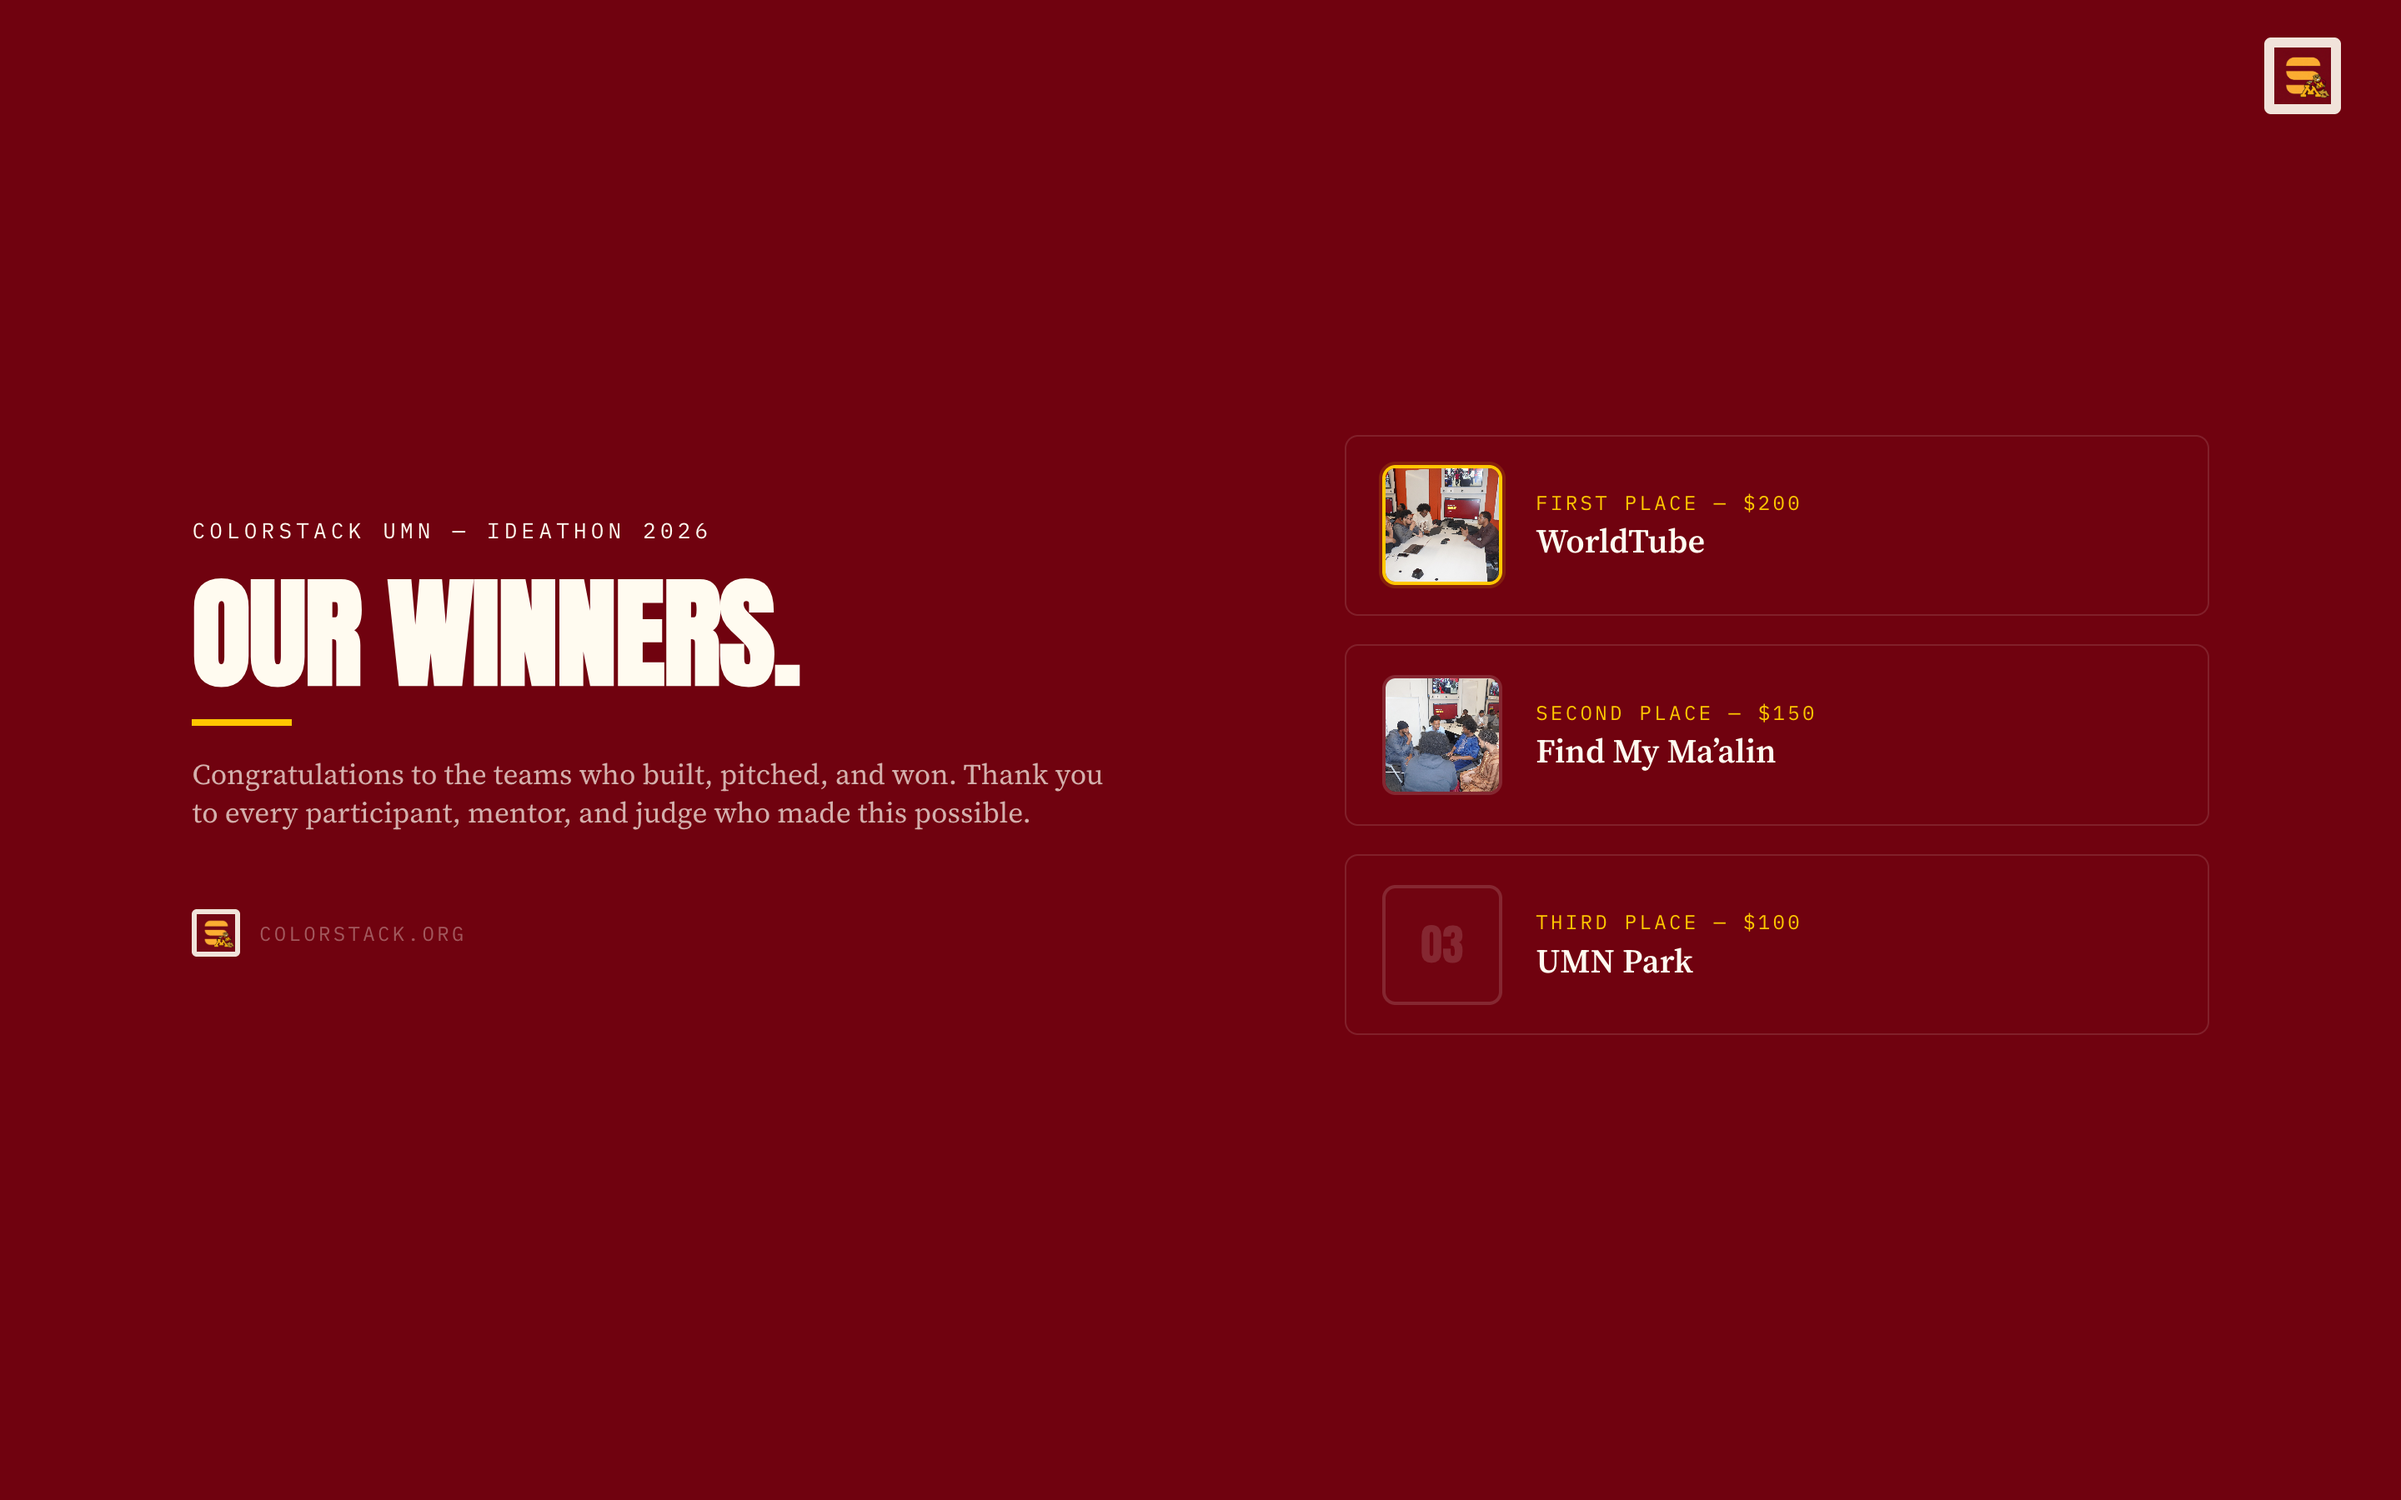
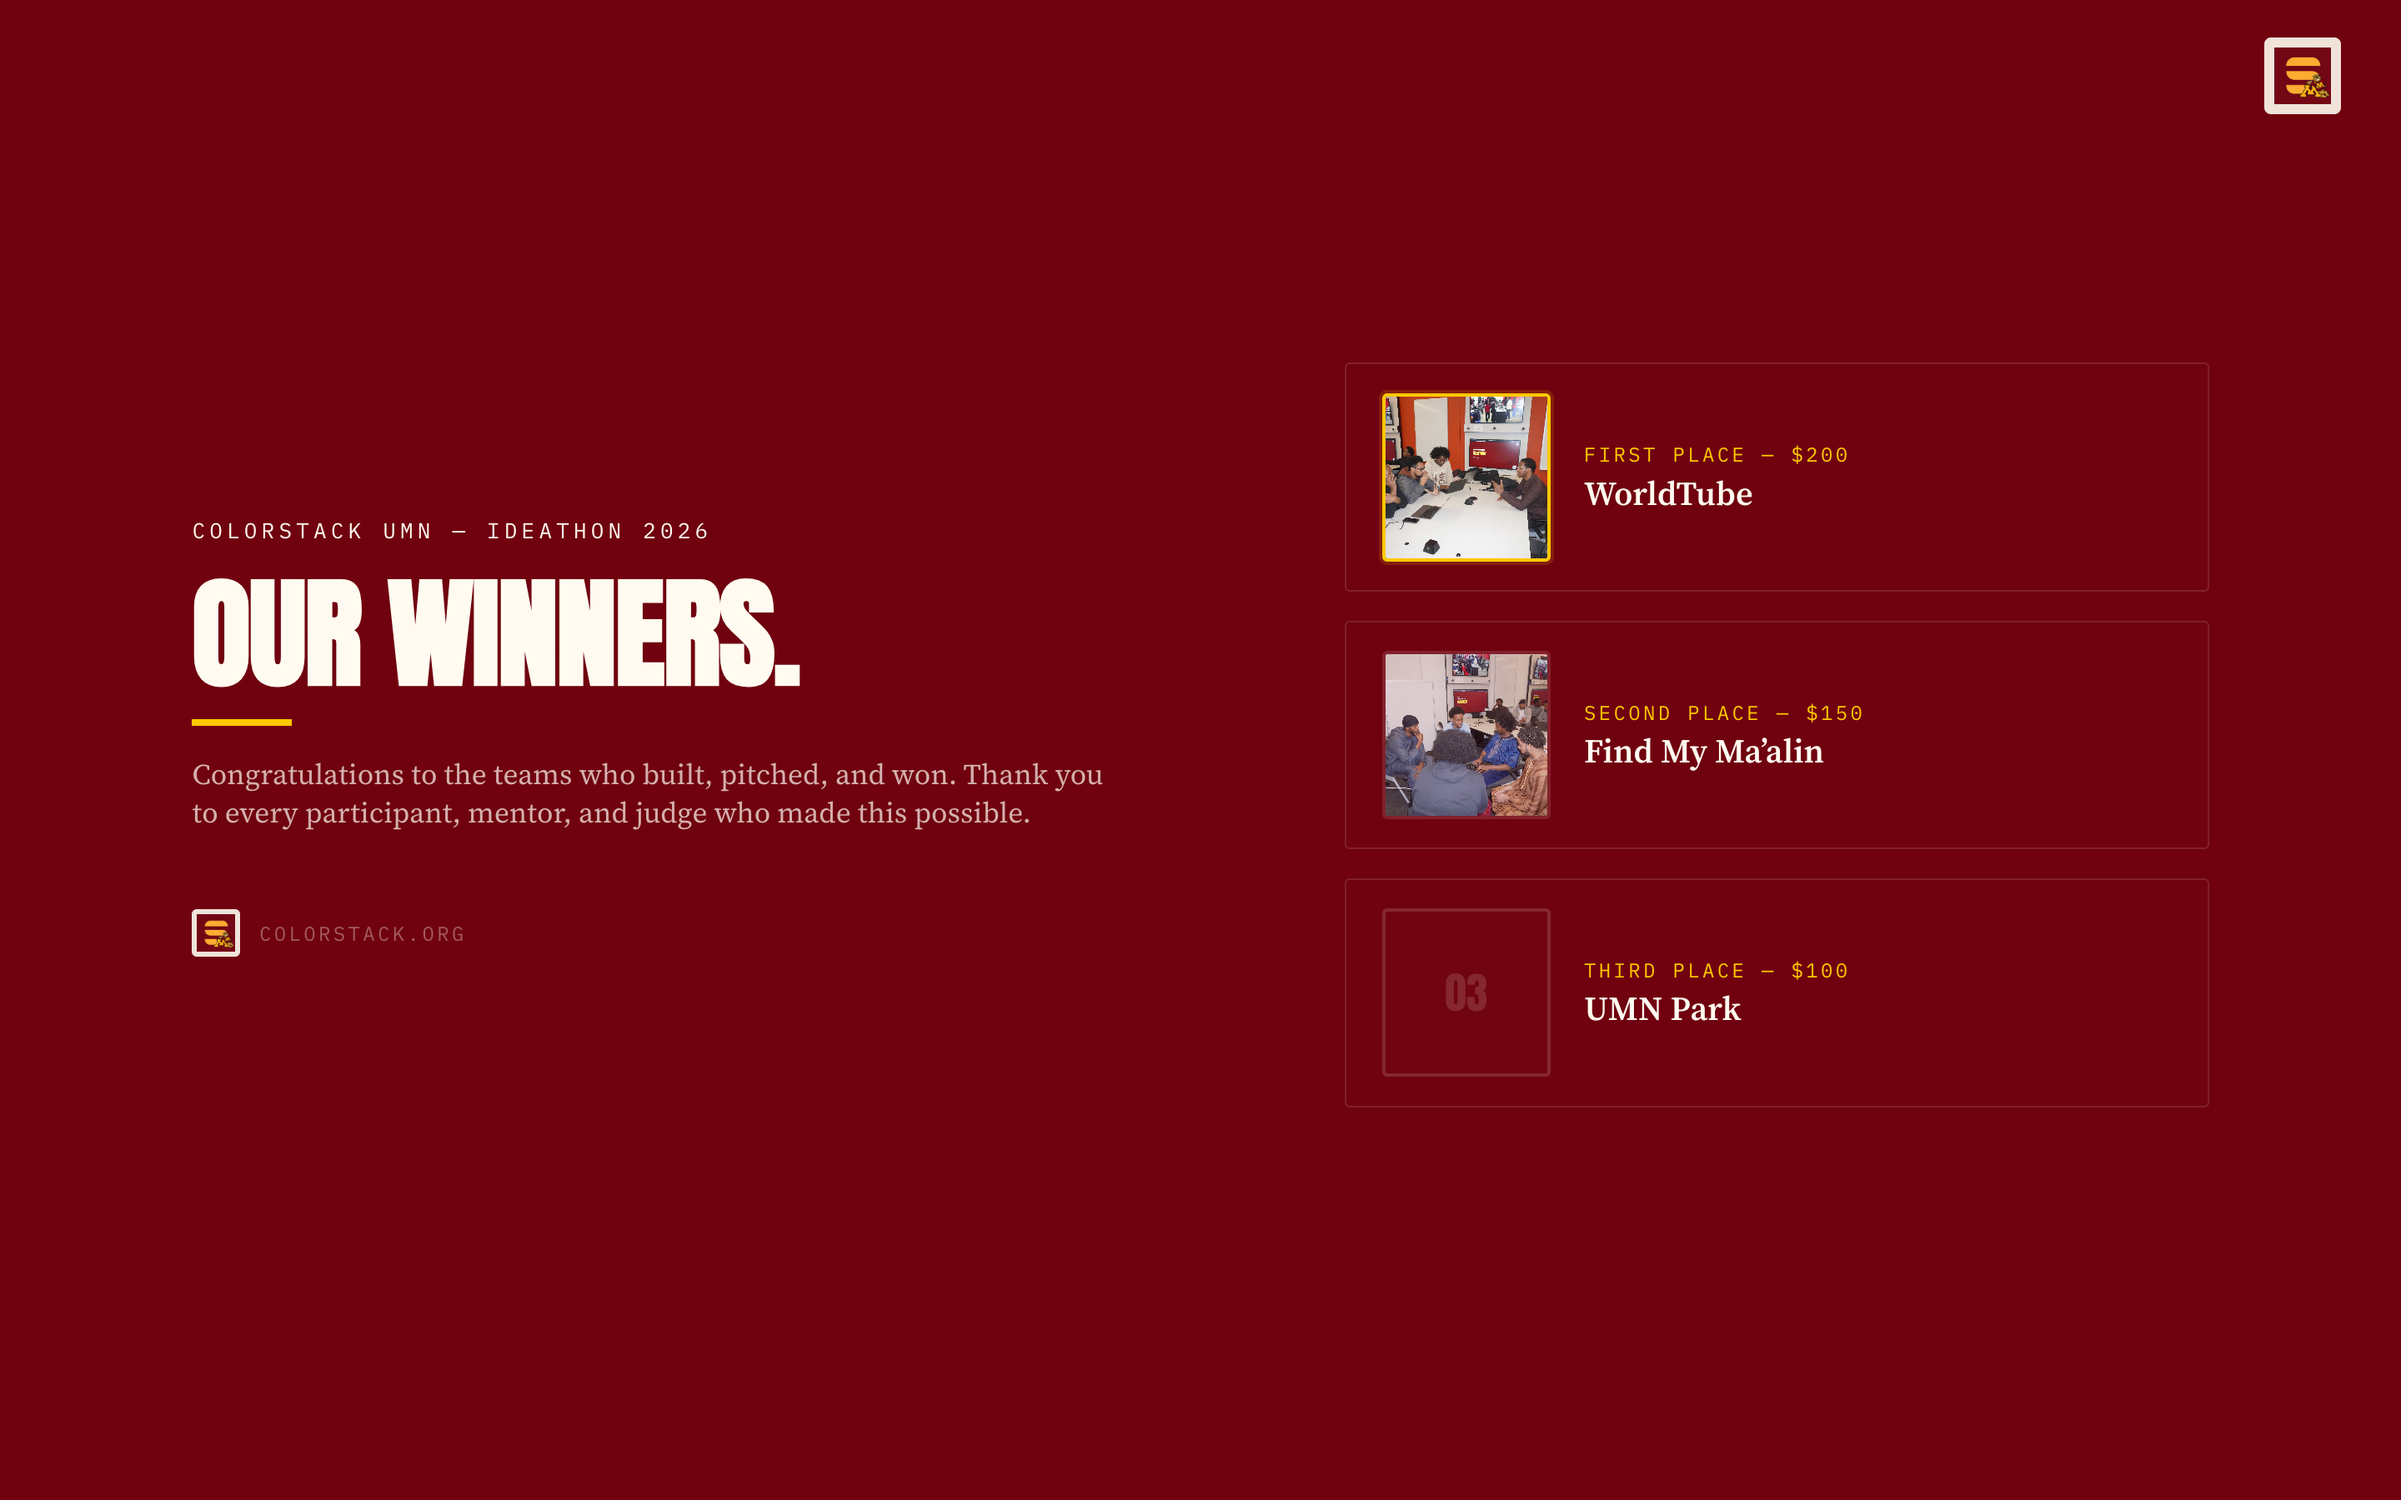
bigger images, sharp corners, clickable lightbox

Changed region(s): [[0.5625, 0.2489, 0.9062, 0.6844], [0.75, 0.28, 0.7812, 0.3111], [0.5938, 0.7156, 0.625, 0.7467]]

diff --git a/styles.css b/styles.css
@@ -390,12 +390,12 @@ body.theme--cream  { background: var(--cream);  color: var(--maroon); }
   gap: max(16px, 1.4vw);
   padding: max(14px, 1.2vw) max(18px, 1.5vw);
   border: 1px solid rgba(255, 251, 240, 0.12);
-  border-radius: 8px;
+  border-radius: 3px;
 }
 .winner-entry-img {
-  width: max(64px, 5vw);
-  height: max(64px, 5vw);
-  border-radius: 8px;
+  width: max(90px, 7vw);
+  height: max(90px, 7vw);
+  border-radius: 3px;
   overflow: hidden;
   flex-shrink: 0;
   border: 2px solid rgba(255, 251, 240, 0.15);
@@ -421,6 +421,57 @@ body.theme--cream  { background: var(--cream);  color: var(--maroon); }
   font-size: max(20px, 1.8vw);
   color: var(--cream);
   opacity: 0.15;
+}
+
+/* ── Lightbox ── */
+.winner-entry-img[data-lightbox] { cursor: pointer; }
+.winner-entry-img[data-lightbox]:hover { opacity: 0.85; transition: opacity 0.2s; }
+
+.lightbox {
+  position: fixed;
+  inset: 0;
+  z-index: 9999;
+  display: flex;
+  align-items: center;
+  justify-content: center;
+  opacity: 0;
+  pointer-events: none;
+  transition: opacity 0.3s cubic-bezier(0.22, 1, 0.36, 1);
+}
+.lightbox.active {
+  opacity: 1;
+  pointer-events: auto;
+}
+.lightbox-backdrop {
+  position: absolute;
+  inset: 0;
+  background: rgba(30, 5, 5, 0.92);
+  cursor: pointer;
+}
+.lightbox-content {
+  position: relative;
+  display: flex;
+  flex-direction: column;
+  align-items: center;
+  gap: max(16px, 1.2vw);
+  transform: scale(0.92);
+  transition: transform 0.3s cubic-bezier(0.22, 1, 0.36, 1);
+}
+.lightbox.active .lightbox-content {
+  transform: scale(1);
+}
+.lightbox-img {
+  max-width: min(85vw, 720px);
+  max-height: 70vh;
+  object-fit: contain;
+  border-radius: 3px;
+  border: 2px solid rgba(255, 251, 240, 0.15);
+  box-shadow: 0 24px 80px rgba(0, 0, 0, 0.5);
+}
+.lightbox-caption {
+  color: var(--cream);
+  opacity: 0.5;
+  letter-spacing: 0.14em;
 }
 
 /* ── Component: Editorial Frame ── */
@@ -807,5 +858,5 @@ body.theme--cream  { background: var(--cream);  color: var(--maroon); }
   .mic-accent-wrap { right: 3vw; bottom: 4vh; padding: max(12px, 1vw); }
   .mic-accent-wrap .mic-accent { width: max(60px, 12vw); }
   .winner-entry { padding: max(10px, 1vw) max(12px, 1vw); gap: max(12px, 1vw); }
-  .winner-entry-img { width: max(48px, 12vw); height: max(48px, 12vw); }
+  .winner-entry-img { width: max(64px, 16vw); height: max(64px, 16vw); }
 }

diff --git a/index.html b/index.html
@@ -397,7 +397,7 @@
       </div>
       <div class="flex-col gap-md anim">
         <div class="winner-entry anim">
-          <div class="winner-entry-img winner-entry-img--1st">
+          <div class="winner-entry-img winner-entry-img--1st" data-lightbox="assets/worldtube.JPG">
             <img src="assets/worldtube.JPG" alt="WorldTube">
           </div>
           <div class="flex-col">
@@ -406,7 +406,7 @@
           </div>
         </div>
         <div class="winner-entry anim">
-          <div class="winner-entry-img">
+          <div class="winner-entry-img" data-lightbox="assets/findmymacalin.JPG">
             <img src="assets/findmymacalin.JPG" alt="Find My Ma'alin">
           </div>
           <div class="flex-col">
@@ -415,7 +415,7 @@
           </div>
         </div>
         <div class="winner-entry anim">
-          <div class="winner-entry-img">
+          <div class="winner-entry-img" data-lightbox="">
             <div class="winner-entry-placeholder">03</div>
           </div>
           <div class="flex-col">
@@ -435,6 +435,15 @@
 
 <!-- Page Counter -->
 <div class="page-counter" id="pageCounter">01 / 14</div>
+
+<!-- Lightbox -->
+<div class="lightbox" id="lightbox">
+  <div class="lightbox-backdrop"></div>
+  <div class="lightbox-content">
+    <img src="" alt="" class="lightbox-img" id="lightboxImg">
+    <p class="lightbox-caption t-mono-sm" id="lightboxCaption"></p>
+  </div>
+</div>
 
 <script src="script.js"></script>
 </body>

diff --git a/script.js b/script.js
@@ -27,6 +27,41 @@
     /* Hide navigation — presentation is over */
     if (dotNav) dotNav.style.display = 'none';
     if (pageCounter) pageCounter.style.display = 'none';
+
+    /* ── Lightbox ── */
+    var lightbox = document.getElementById('lightbox');
+    var lightboxImg = document.getElementById('lightboxImg');
+    var lightboxCaption = document.getElementById('lightboxCaption');
+
+    function openLightbox(src, alt) {
+      if (!src) return;
+      lightboxImg.src = src;
+      lightboxImg.alt = alt || '';
+      lightboxCaption.textContent = alt || '';
+      lightbox.classList.add('active');
+    }
+
+    function closeLightbox() {
+      lightbox.classList.remove('active');
+    }
+
+    document.querySelectorAll('.winner-entry-img[data-lightbox]').forEach(function (el) {
+      el.addEventListener('click', function () {
+        var src = this.getAttribute('data-lightbox');
+        var img = this.querySelector('img');
+        openLightbox(src, img ? img.alt : '');
+      });
+    });
+
+    lightbox.querySelector('.lightbox-backdrop').addEventListener('click', closeLightbox);
+    lightbox.addEventListener('click', function (e) {
+      if (e.target === lightboxImg) return;
+      if (e.target === lightboxCaption) return;
+      closeLightbox();
+    });
+    document.addEventListener('keydown', function (e) {
+      if (e.key === 'Escape') closeLightbox();
+    });
   }
 
   if (document.readyState === 'loading') {
